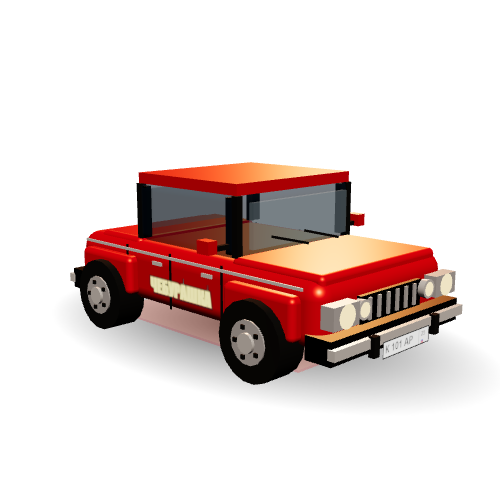
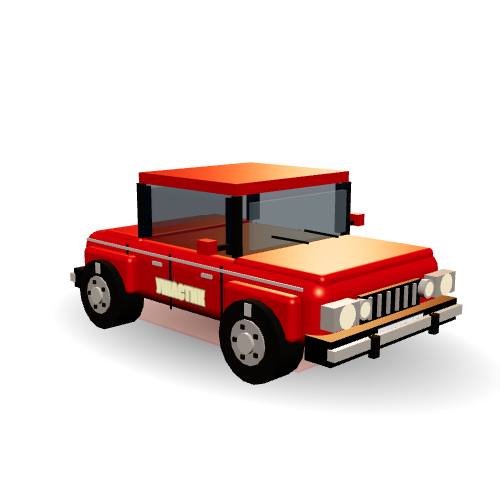
fix(content): без чужих названий в лоре и трофеях — вымышленные двойники из 90-х
По решению: «Терминатор» → «Киборг-убийца», «Битлз» → группа «Яблоньки», «Король и Шут» →
«Граф и Дурак» (лор главы 1, реплики злодея); жвачка «Турбо» (реальная марка) → жвачка «Разгон»,
в интерфейсе — «Жвачки»; машина «Чебурашка» → «Ушастик» (надпись на борту, лор, реплики, трофей
«Плюшевый Ушастик»; id cheburashka оставлен — сохранения не ломаются); трофеи «Нео-пилюля» →
«Красная пилюля», «Волк («Ну, погоди!»)» → «Волк в тельняшке», «Микрофон Ранеток» → «Микрофон
рок-группы», «Т-800 (кассета)» → «Кассета «Киборг-убийца»», «Брат» → «Тёмные очки братка»,
«Сердце океана» → «Кулон «Синее море»»; награда сезона «Гудок «Яблоньки»», чит-код «яблоньки».
Картинки машин перерисованы (надпись «УШАСТИК»). docs/ASSETS.md — всё отмечено ✅.

diff --git a/src/main.js b/src/main.js
@@ -1514,7 +1514,7 @@ function createProfile(name) { return Profile.createProfile(name); }
             sc.classList.add('active'); sc.style.display = 'flex';
             shopSelectedCar = currentPlayer.preferredCar || 'cheburashka';
             document.getElementById('shop-currency').textContent =
-                '🪙 Фишки: ' + currentPlayer.season.chips + ' · 🍬 Турбо: ' + currentPlayer.season.gum;
+                '🪙 Фишки: ' + currentPlayer.season.chips + ' · 🍬 Жвачки: ' + currentPlayer.season.gum;
             const box = document.getElementById('shop-cars');
             function refreshShopSelection() {
                 if (!currentPlayer || !shopSelectedCar) return;
@@ -1563,7 +1563,7 @@ function createProfile(name) { return Profile.createProfile(name); }
                             pendingCar = shopSelectedCar;
                             saveCurrentPlayer();
                             document.getElementById('shop-currency').textContent =
-                                '🪙 Фишки: ' + currentPlayer.season.chips + ' · 🍬 Турбо: ' + currentPlayer.season.gum;
+                                '🪙 Фишки: ' + currentPlayer.season.chips + ' · 🍬 Жвачки: ' + currentPlayer.season.gum;
                             box.querySelectorAll('.shop-car-btn').forEach(function(btn) {
                                 const id = btn.getAttribute('data-car');
                                 const p = CAR_PRESETS[id];
@@ -2656,7 +2656,7 @@ function startGaragePreview(carId) {
 
 
         // Баланс v2 (BALANCE_VERSION в начале файла): лимит 90 с на всех сложностях.
-        // Чистый заезд на «Чебурашке» (~24 ед/с в среднем с нитро): лёгкий ~58 с, средний ~62 с, сложный ~65 с.
+        // Чистый заезд на «Ушастике» (~24 ед/с в среднем с нитро): лёгкий ~58 с, средний ~62 с, сложный ~65 с.
         // Авария стоит ~5 / 6 / 8 с (штраф × timePenaltyMul + потеря скорости) — по времени можно ошибиться
         // примерно 5 / 4 / 3 раза. Сложность растёт плотностью зверей и машин, а не длиной трассы.
 
@@ -4323,7 +4323,7 @@ function startGaragePreview(carId) {
                     if (!cheb) {
                         cheb = document.createElement('div');
                         cheb.id = 'cheburashkaWarn';
-                        cheb.textContent = '😰 Чебурашка: ещё один удар — и Золотой Кирпич!';
+                        cheb.textContent = '😰 Ушастик: ещё один удар — и Золотой Кирпич!';
                         cheb.style.cssText = 'position:fixed;bottom:58px;left:50%;transform:translateX(-50%);background:rgba(80,0,0,0.8);color:#ffaaaa;padding:4px 10px;border-radius:8px;border:1px solid #ff4444;z-index:90;font-size:10px;max-width:70vw;text-align:center;pointer-events:none;';
                         document.body.appendChild(cheb);
                     }
@@ -8105,9 +8105,9 @@ function startGaragePreview(carId) {
             }
 
             const RADIO_LINES = {
-                start: ['Чебурашка, поехали. Жвачка не будет ждать.', 'Эфир чист… почти. Не слушай Ранеток.'],
+                start: ['Ушастик, поехали. Жвачка не будет ждать.', 'Эфир чист… почти. Не слушай «Яблонек».'],
                 nitro: ['Нитро в жилах! Держи руль!', 'Турбо-режим, как в хорошем клипе 90-х.'],
-                gum: ['Жвачка Турбо! Вкус победы.', 'Ещё одна фишка в коллекцию, братишка.'],
+                gum: ['Жвачка «Разгон»! Вкус победы.', 'Ещё одна фишка в коллекцию, братишка.'],
                 hit: ['Ай! Кузов помнит.', 'Осторожней, курьер. Аванс уже съели.', 'Это было близко к «Золотому Кирпичу».'],
                 boss: ['Медведь на частоте! Он снова про Арсеньевских!', 'Босс на хвосте. Не геройствуй — вези груз.'],
                 combo: ['Чистый эфир! Так держать.', 'Комбо растёт. Мост уже ближе.'],
@@ -9519,7 +9519,7 @@ function startGaragePreview(carId) {
                             el.style.borderColor = '#33ff66';
                             postShout(el, 1500);
                         } else {
-                            // Жвачка Турбо: +5 сек ИЛИ снятие 1 аварии
+                            // Жвачка «Разгон»: +5 сек ИЛИ снятие 1 аварии
                             try { if (window.soundEngine) window.soundEngine.playSfx('pickup', 1.0); } catch (e) {}
                             try {
                                 const fl = document.createElement('div');
@@ -9543,7 +9543,7 @@ function startGaragePreview(carId) {
                                 showTimePenaltyPopup(0, '🍬 +5 сек');
                                 const el = document.createElement('div');
                                 el.className = 'animal-shout';
-                                el.textContent = '🍬 Жвачка Турбо! +5 сек';
+                                el.textContent = '🍬 Жвачка «Разгон»! +5 сек';
                                 el.style.color = '#ff88cc';
                                 el.style.borderColor = '#ff88cc';
                                 postShout(el, 1600);
@@ -10860,7 +10860,7 @@ function startGaragePreview(carId) {
                 try { localStorage.setItem(MAP_LORE_KEY, JSON.stringify(seen)); } catch (e) {}
                 const texts = {
                     arsenev: '📍 Трасса Арсеньева: когда-то здесь ездили на дачу. Теперь — только курьеры и хамы с правами.',
-                    promzona: '📍 Промзона: трубы ещё дымят, хотя завод закрыли в 2029. Говорят, в цехах слышны Ранетки…',
+                    promzona: '📍 Промзона: трубы ещё дымят, хотя завод закрыли в 2029. Говорят, в цехах слышны «Яблоньки»…',
                     svalka: '📍 Свалка «Надежда»: всё, что город стыдится, лежит здесь. И да — жвачка Турбо тоже иногда попадается.'
                 };
                 if (texts[mapId]) setTimeout(() => showStory(texts[mapId]), 1200);
@@ -11345,7 +11345,7 @@ function showLoreScreen(quality, difficulty) {
 
         if (typeof refreshMapSelectUI === 'function') refreshMapSelectUI();
         
-        // Чит-коды: РАНЕТКИ / RANETKI / АРСЕНАЛ / ARSENAL — все карты + достижения + трофеи
+        // Чит-коды: ЯБЛОНЬКИ / YABLONKI / АРСЕНАЛ / ARSENAL — все карты + достижения + трофеи
         function unlockEverythingCheat(source) {
             try {
                 if (!currentPlayer) {
@@ -11419,11 +11419,11 @@ function showLoreScreen(quality, difficulty) {
             cheatBuffer += k;
             if (cheatBuffer.length > 32) cheatBuffer = cheatBuffer.slice(-32);
             const buf = cheatBuffer;
-            if (buf.includes('ранетки') || buf.includes('ranetki') ||
+            if (buf.includes('яблоньки') || buf.includes('yablonki') ||
                 buf.includes('арсенал') || buf.includes('arsenal') ||
                 buf.includes('всекарты') || buf.includes('vsekarty')) {
                 cheatBuffer = '';
-                unlockEverythingCheat('РАНЕТКИ');
+                unlockEverythingCheat('ЯБЛОНЬКИ');
             }
         });
 

diff --git a/src/content.js b/src/content.js
@@ -15,14 +15,14 @@ export const MAP_NAMES = {
 export const CAMPAIGN_FINISH_LINES = [
     'Одна трасса — не победа.\nТы лишь выехал из клетки, курьер.\nАнтидот всё ещё в багажнике… и под прицелом.',
     'Дождь смыл твои следы, но не мой интерес.\nПродолжай. Мне нравится, как ты цепляешься за «мир».',
-    'Ночь тебя не съела — жаль.\nЗелёные глаза запомнили «Чебурашку».\nДальше будет теснее.',
+    'Ночь тебя не съела — жаль.\nЗелёные глаза запомнили «Ушастика».\nДальше будет теснее.',
     'Промзона открыла рот.\nТы въехал в мою территорию добровольно.\nХрабрость или глупость — разберём на финише Центра.',
     'Цех №7 помнит мой почерк.\nТы едешь по чертежам, которые я же и испортил.\nАнтидот не исправит автора.',
     'Красный свет труб — не декорация.\nЭто предупреждение.\nСбавь героизм, пока частота ещё вежливая.',
     'Свалка «Надежда» приняла тебя как ещё один остов.\nТы выбрался. Пока что.\nНадежда — плохой навигатор.',
     'Зелёный дым не отличил, кто прав.\nОн только показал, кто дышит глубже.\nТы всё ещё везёшь «undo» для моего приговора.',
     'Холодный рассвет.\nЯ слышал, как стучало сердце.\nНе путай адреналин с правотой.',
-    'Кассеты, «Терминатор», жвачка…\nТы снова в ностальгии, а я — в эфире.\nИрония не спасёт антидот.',
+    'Кассеты, «Киборг-убийца», жвачка…\nТы снова в ностальгии, а я — в эфире.\nИрония не спасёт антидот.',
     'Подступы к Центру.\nПочти у двери тех, кто всё «исправит».\nСкажи им: мир без ЗвероСуда — снова ложь в халате.',
     'Ты доехал.\nБутылка на столе. Подписи. Улыбки.\nНо частота останется.\nВключи радио завтра — если услышишь треск, это не сбой. Это я.',
     'Радиорынок гудит.\nТы купил время — не победу.',
@@ -78,14 +78,14 @@ export const CAR_PAINTS = [
 ];
 
 export const TROPHIES = [
-    { id: 't_cheburashka', name: 'Чебурашка', emoji: '🧸', desc: 'Первый финиш', need: 'first_win' },
-    { id: 't_wolf', name: 'Волк («Ну, погоди!»)', emoji: '🐺', desc: 'Друг медведя', need: 'bear_friend' },
-    { id: 't_terminator', name: 'Т-800 (кассета)', emoji: '🤖', desc: 'Финиш ночью', need: 'night_rider' },
-    { id: 't_matrix', name: 'Нео-пилюля', emoji: '💊', desc: 'Финиш без аварий', need: 'perfect' },
-    { id: 't_brother', name: 'Брат', emoji: '🕶', desc: 'Победа на сложном', need: 'hard_win' },
-    { id: 't_titanic', name: 'Сердце океана', emoji: '💎', desc: '2 жвачки за рейс', need: 'gum_2' },
+    { id: 't_cheburashka', name: 'Плюшевый Ушастик', emoji: '🧸', desc: 'Первый финиш', need: 'first_win' },
+    { id: 't_wolf', name: 'Волк в тельняшке', emoji: '🐺', desc: 'Друг медведя', need: 'bear_friend' },
+    { id: 't_terminator', name: 'Кассета «Киборг-убийца»', emoji: '🤖', desc: 'Финиш ночью', need: 'night_rider' },
+    { id: 't_matrix', name: 'Красная пилюля', emoji: '💊', desc: 'Финиш без аварий', need: 'perfect' },
+    { id: 't_brother', name: 'Тёмные очки братка', emoji: '🕶', desc: 'Победа на сложном', need: 'hard_win' },
+    { id: 't_titanic', name: 'Кулон «Синее море»', emoji: '💎', desc: '2 жвачки за рейс', need: 'gum_2' },
     { id: 't_pokemon', name: 'Жёлтая молния', emoji: '⚡', desc: 'Финиш без нитро', need: 'no_nitro' },
-    { id: 't_ranetki', name: 'Микрофон Ранеток', emoji: '🎤', desc: 'Уровень сезона 5', need: 'season5' },
+    { id: 't_ranetki', name: 'Микрофон рок-группы', emoji: '🎤', desc: 'Уровень сезона 5', need: 'season5' },
     { id: 't_taxi', name: 'Шашечки такси', emoji: '🚕', desc: '10 заездов', need: 'races10' },
     { id: 't_mk', name: 'Фишка из автомата', emoji: '🕹', desc: '5 побед', need: 'wins5' }
 ];
@@ -96,7 +96,7 @@ export const SEASON_REWARDS = [
     { level: 3,  text: 'Стикер «Не бить — засудит»', gum: 10, chips: 0 },
     { level: 4,  text: 'Гудок «Мелодия»', gum: 5, chips: 1 },
     { level: 5,  text: 'Номер «АРС–90»', gum: 15, chips: 1 },
-    { level: 6,  text: 'Пачка Турбо', gum: 50, chips: 0 },
+    { level: 6,  text: 'Пачка «Разгона»', gum: 50, chips: 0 },
     { level: 7,  text: 'Фишка из автомата', gum: 0, chips: 1 },
     { level: 8,  text: 'Титул «Без нитро»', gum: 10, chips: 0 },
     { level: 9,  text: 'Новый крик зверя', gum: 5, chips: 0 },
@@ -110,7 +110,7 @@ export const SEASON_REWARDS = [
     { level: 17, text: 'Фишка ×1', gum: 0, chips: 1 },
     { level: 18, text: 'Реплика радио №2', gum: 10, chips: 0 },
     { level: 19, text: 'Титул «Масломан»', gum: 10, chips: 0 },
-    { level: 20, text: 'Гудок «Ранетки»', gum: 25, chips: 2 },
+    { level: 20, text: 'Гудок «Яблоньки»', gum: 25, chips: 2 },
     { level: 21, text: 'Стикер «Свалка»', gum: 15, chips: 0 },
     { level: 22, text: 'Фишка ×2', gum: 0, chips: 2 },
     { level: 23, text: 'Рамка «Надежда»', gum: 15, chips: 0 },

diff --git a/src/data.js b/src/data.js
@@ -10,7 +10,7 @@ export const CAMPAIGN_TRACKS = [
     { id: 'c02', name: 'Трасса «Туманный мост»', style: 'arsenev', weather: 'rain', diff: 'easy',
       desc: 'Дождь. Разметка почти не видна.',
       loreTitle: 'Мокрый асфальт',
-      loreAfter: 'Дождь смывает следы людей.\nОставляет только тех, кто умеет жить без правил.\n\nТвои звери уже знают номер «Чебурашки».\nОни не злые — они свободные.\nА свободу вы называли «ошибкой эксперимента».\n\nАнтидот вернёт их в клетки… только уже в головах.\nЯ этого не допущу.' },
+      loreAfter: 'Дождь смывает следы людей.\nОставляет только тех, кто умеет жить без правил.\n\nТвои звери уже знают номер «Ушастика».\nОни не злые — они свободные.\nА свободу вы называли «ошибкой эксперимента».\n\nАнтидот вернёт их в клетки… только уже в головах.\nЯ этого не допущу.' },
     { id: 'c03', name: 'Ночной объезд', style: 'arsenev', weather: 'night', diff: 'medium',
       desc: 'Только фары и глаза в темноте.',
       loreTitle: 'Зелёные глаза',
@@ -27,7 +27,7 @@ export const CAMPAIGN_TRACKS = [
     { id: 'c06', name: 'Красные трубы', style: 'promzona', weather: 'night', diff: 'hard',
       desc: 'Мигающие лампы. Не смотри по сторонам.',
       loreTitle: 'Красный сигнал',
-      loreAfter: 'Каждый твой финиш — репортаж.\n«Курьер снова прорвался».\n\nМне нужна тишина, а не герои на радио.\nЛюди снова поверят, что мир можно «починить бутылкой».\n\nПочини себя сначала.\nТы возил пиратский «Терминатор» и жвачку «Турбо».\nТеперь вдруг — спаситель цивилизации?\n\nСбавь пафос. Или скорость. На выбор.' },
+      loreAfter: 'Каждый твой финиш — репортаж.\n«Курьер снова прорвался».\n\nМне нужна тишина, а не герои на радио.\nЛюди снова поверят, что мир можно «починить бутылкой».\n\nПочини себя сначала.\nТы возил пиратского «Киборга-убийцу» и жвачку «Разгон».\nТеперь вдруг — спаситель цивилизации?\n\nСбавь пафос. Или скорость. На выбор.' },
     { id: 'c07', name: 'Свалка «Надежда»', style: 'svalka', weather: 'day', diff: 'medium',
       desc: 'Горы хлама и странный запах.',
       loreTitle: 'Свалка равных',
@@ -44,7 +44,7 @@ export const CAMPAIGN_TRACKS = [
     { id: 'c10', name: 'Шоссе «Последний VHS»', style: 'arsenev', weather: 'day', diff: 'hard',
       desc: 'Ностальгия и высокая скорость.',
       loreTitle: 'Кассета судьбы',
-      loreAfter: '«Терминатор», «Битлз», «Король и Шут»…\nТы возил прошлое, пока настоящее гнило.\n\nЯ тоже из того времени.\nТолько вместо гитары у меня был лабораторный журнал.\n\nТы веришь, что Армагеддон останавливают песнями.\nЯ остановил его иначе: отдал дорогу тем, кого вы давили.\n\nИрония: контрабандист стал мессией.\nА я — голосом в приёмнике.\nКто из нас настоящий?' },
+      loreAfter: '«Киборг-убийца», «Яблоньки», «Граф и Дурак»…\nТы возил прошлое, пока настоящее гнило.\n\nЯ тоже из того времени.\nТолько вместо гитары у меня был лабораторный журнал.\n\nТы веришь, что Армагеддон останавливают песнями.\nЯ остановил его иначе: отдал дорогу тем, кого вы давили.\n\nИрония: контрабандист стал мессией.\nА я — голосом в приёмнике.\nКто из нас настоящий?' },
     { id: 'c11', name: 'Подступы к Центру', style: 'promzona', weather: 'rain', diff: 'hard',
       desc: 'Охрана, звери, нитро — всё сразу.',
       loreTitle: 'Последний заслон',
@@ -164,7 +164,7 @@ export const CAMPAIGN_STAGE_MODS = {
 // сохранить прежнее ощущение разгона (время до максимума не изменилось).
 export const CAR_PRESETS = {
     // ability — у каждой машины своя «фишка», выбор машины — решение, а не косметика
-    cheburashka: { name: 'Чебурашка', color: 0xff2200, maxSpeed: 0.42, accel: 0.0216, durability: 1.00, oilGrip: 1.00, priceChips: 0,
+    cheburashka: { name: 'Ушастик', color: 0xff2200, maxSpeed: 0.42, accel: 0.0216, durability: 1.00, oilGrip: 1.00, priceChips: 0,
         ability: { id: 'nimble', name: 'Вёрткая', desc: 'руль острее на 15%, «На волоске!» даёт нитро дольше' } },
     kirpich:     { name: 'Нива',       color: 0x4a6a4a, maxSpeed: 0.372, accel: 0.0168, durability: 0.70, oilGrip: 1.18, priceChips: 12,
         ability: { id: 'offroad', name: 'Внедорожник', desc: 'ямы, кочки, лёд и смола не тормозят' } },

diff --git a/index.html b/index.html
@@ -201,7 +201,7 @@
     <div id="shop-screen">
         <div class="content">
             <h1 style="color:#ffdd00;">🚗 МАШИНЫ</h1>
-            <div class="sub" id="shop-currency" style="color:#ffaa44;">🪙 Фишки: 0 · 🍬 Турбо: 0</div>
+            <div class="sub" id="shop-currency" style="color:#ffaa44;">🪙 Фишки: 0 · 🍬 Жвачки: 0</div>
             <div id="shop-canvas-wrap"></div>
             <div class="shop-cars" id="shop-cars"></div>
             <div id="shop-desc" class="car-stats" style="font-size:12px;color:#aaa;margin:8px 0;"></div>
@@ -382,13 +382,13 @@
         <div class="content">
             <img id="car-select-banner" src="images/car_select.jpg" alt="Выбор машины"
                  onerror="this.onerror=null;this.src='images/car_select.png';">
-            <h2>🚗 ВЫБЕРИ ЧЕБУРАШКУ</h2>
+            <h2>🚗 ВЫБЕРИ МАШИНУ</h2>
             <div class="sub">От выбора зависят скорость, прочность и поведение на масле</div>
             <div class="car-options">
                 <div class="car-card selected" data-car="cheburashka">
-                    <img class="car-img" src="images/car_cheburashka.png" alt="Чебурашка"
+                    <img class="car-img" src="images/car_cheburashka.png" alt="Ушастик"
                          onerror="this.onerror=null;this.src='images/car_cheburashka.png';this.style.background='#331108';">
-                    <div class="car-name">Чебурашка</div>
+                    <div class="car-name">Ушастик</div>
                     <div class="car-desc">Вёрткая<br>руль острее</div>
                 </div>
                 <div class="car-card" data-car="kirpich">
@@ -432,7 +432,7 @@
                 <h2>🏎 ДОРОЖНЫЙ ПРОРЫВ — ДОРОГА ИЗ АРСЕНЬЕВА</h2>
                 <p>Год 2037. Мир уже не тот. Животные внезапно осознали, что у них есть права, и решили воспользоваться ими самым радикальным способом. Они вышли на дороги — массово, агрессивно и с полным игнорированием ПДД.</p>
                 <p>Власти объявили режим «ЗвероСуда». Сбивать их нельзя — при неправильном умерщвлении мясо покрывается токсичным слоем. Питаться будет нечем.</p>
-                <p>Ты — Водитель. Последний из могикан. Профессиональный курьер. На самом деле возишь контрабандные кассеты с «Терминатором» и копиями «Битлз» на рентгеновских снимках. Клиент заплатил пачкой жвачки «Турбо» и пообещал ещё одну… если уложишься.</p>
+                <p>Ты — Водитель. Последний из могикан. Профессиональный курьер. На самом деле возишь контрабандные кассеты с «Киборгом-убийцей» и копиями «Яблонек» на рентгеновских снимках. Клиент заплатил пачкой жвачки «Разгон» и пообещал ещё одну… если уложишься.</p>
             </div>
             <div class="lore-progress">1 / 2</div>
             <div class="lore-nav">
@@ -449,7 +449,7 @@
                 <p>Старт — придорожное кафе «Ностальджгия». Финиш — «Золотой Мост», который открывается только раз в сутки ровно на 90 секунд. Не успел — мост улетает в космос вместе с надеждой.</p>
                 <p>Через полторы минуты сработает «Звериный час». Животные выходят на охоту. Они не кусают — они тормозят машины, чтобы ты прослушал их любимый плейлист «Ранеток» или стихи медведя с сигаретой в пасти.</p>
                 <p>Каждая авария — «поцелуй судьбы». До 7 секунд жизни. 5 аварий — и ты получаешь «Золотой Кирпич». После этого жизнь превращается в бесконечный чёрно-белый фильм с плохим переводом.</p>
-                <p style="color:#ffaa00; margin-top:14px; text-align:center;"><b>Жвачка «Турбо» ждёт. Не подведи Чебурашку.</b></p>
+                <p style="color:#ffaa00; margin-top:14px; text-align:center;"><b>Жвачка «Разгон» ждёт. Не подведи Ушастика.</b></p>
             </div>
             <div class="lore-progress">2 / 2</div>
             <div class="lore-nav">

diff --git a/tests/unit/car-stats.test.js b/tests/unit/car-stats.test.js
@@ -15,7 +15,7 @@ describe('сравнение машин', () => {
         expect(new Set(names).size).toBe(1);
         expect(names[0]).toBe('Скорость,Разгон,Управление,Прочность,Нитро');
     });
-    it('Волга быстрее Чебурашки, Нива прочнее', () => {
+    it('Волга быстрее Ушастика, Нива прочнее', () => {
         const ch = statBars(CAR_PRESETS.cheburashka, {});
         const d1 = statDeltas(statBars(CAR_PRESETS.turbo, {}), ch);
         const d2 = statDeltas(statBars(CAR_PRESETS.kirpich, {}), ch);
@@ -25,12 +25,12 @@ describe('сравнение машин', () => {
     });
     it('разметка: способность, шкалы, разница и экранирование', () => {
         const bars = statBars(CAR_PRESETS.turbo, {});
-        const html = carStatsHtml(bars, { ability: { name: 'Ракета', desc: 'a<b' }, compare: statBars(CAR_PRESETS.cheburashka, {}), compareName: 'Чебурашка', note: 'Стоимость: 20' });
+        const html = carStatsHtml(bars, { ability: { name: 'Ракета', desc: 'a<b' }, compare: statBars(CAR_PRESETS.cheburashka, {}), compareName: 'Ушастик', note: 'Стоимость: 20' });
         expect(html).toContain('★ Ракета');
         expect(html).toContain('a&lt;b');
         expect((html.match(/class="cs-bar"/g) || []).length).toBe(5);
         expect(html).toContain('class="up">+');
-        expect(html).toContain('сравнение с «Чебурашка»');
+        expect(html).toContain('сравнение с «Ушастик»');
         expect(html).toContain('Стоимость: 20');
     });
 });

diff --git a/src/locales/en.js b/src/locales/en.js
@@ -143,9 +143,9 @@ export default {
         '🌧 Дождь': '🌧 Rain',
         '💡 Новые карты открываются после победы на сложном режиме': '💡 New maps unlock after a win on hard',
         '← Сложность': '← Difficulty',
-        '🚗 ВЫБЕРИ ЧЕБУРАШКУ': '🚗 CHOOSE YOUR CAR',
+        '🚗 ВЫБЕРИ МАШИНУ': '🚗 CHOOSE YOUR CAR',
         'От выбора зависят скорость, прочность и поведение на масле': 'Cars differ in speed, toughness and grip on oil',
-        'Чебурашка': 'Cheburashka',
+        'Ушастик': 'Lop-Ear',
         'Нива': 'Niva',
         'Волга': 'Volga',
         'Баланс': 'Balanced',
@@ -395,7 +395,7 @@ export default {
         [/^«(.+)» строит баррикады$/, '«$1» builds barricades'],
         [/^🦶 Сверху! ×(\d+)$/, '🦶 From above! ×$1'],
         [/^Уровень (\d+)$/, 'Level $1'],
-        [/^🪙 Фишки: (\d+) · 🍬 Турбо: (\d+)$/, '🪙 Chips: $1 · 🍬 Turbo: $2'],
+        [/^🪙 Фишки: (\d+) · 🍬 Жвачки: (\d+)$/, '🪙 Chips: $1 · 🍬 Gum: $2'],
         [/^🏆 Лучшее время: (.+)$/, '🏆 Best time: $1'],
         [/^🏆 Лучшее: (.+)$/, '🏆 Best: $1'],
         [/^🏆 Рекорд: (\d+)$/, '🏆 Record: $1'],

diff --git a/src/cars.js b/src/cars.js
@@ -611,7 +611,7 @@ export function buildShowroomCar(carId) {
             if (w.z > 0) B(dark, Math.sign(w.x) * (bodyW * 0.5 - 0.1), bodyY - bodyH * 0.5 - 0.07, w.z + wheelR + 0.04, 0.18, 0.15, 0.02);
         });
         if (!isJeep && !isSport) {
-            // Чебурашка — «копейка»: сдвоенные круглые фары и хромированные бамперы с клыками
+            // Ушастик — «копейка»: сдвоенные круглые фары и хромированные бамперы с клыками
             const hlY2 = 0.44, hlZ2 = frontZ - 0.05;
             [-1, 1].forEach(function(sx) {
                 const cup = new THREE_REF.Mesh(new THREE_REF.CylinderGeometry(0.055, 0.06, 0.05, 14), chrome2);
@@ -628,7 +628,7 @@ export function buildShowroomCar(carId) {
             });
         }
         // надписи на дверях
-        const decal = { cheburashka: 'ЧЕБУРАШКА', kirpich: '4×4', turbo: null }[carId];
+        const decal = { cheburashka: 'УШАСТИК', kirpich: '4×4', turbo: null }[carId];
         if (decal) {
             const cv = document.createElement('canvas'); cv.width = 256; cv.height = 64;
             const cx = cv.getContext('2d');

diff --git a/src/animals.js b/src/animals.js
@@ -10,7 +10,7 @@ const ANIMAL_KEYS = Object.keys(ANIMAL_TYPES);
  * Звери «видят» скорость машины. Перебежка стартует на фиксированном расстоянии и длится фиксированное время,
  * поэтому прокачанная Волга на нитро (≈ вдвое быстрее) проскакивала раньше, чем зверь выбегал на дорогу,
  * а появлялись звери по времени — на трассе их становилось вдвое меньше. Теперь порог перебежки и частота
- * растут со скоростью: время на реакцию и число встреч на трассе — как у стоковой Чебурашки.
+ * растут со скоростью: время на реакцию и число встреч на трассе — как у стокового Ушастика.
  * REF_SPEED — её крейсерская скорость, ед./с. Возвращает множитель 1..2.2.
  */
 export const REF_SPEED = 25;

diff --git a/src/ui/season-screens.js b/src/ui/season-screens.js
@@ -93,7 +93,7 @@ export function openEventsScreen(d) {
         </div>
         <div class="event-card">
             <h3>🚗 Автопарк</h3>
-            <p>«Чебурашка» — служебный таз, бесплатно. «Нива» — 12 фишек. «Волга» — 20 фишек. У каждой своя способность, а в гараже — прокачка: двигатель, коробка, шины, броня и нитро.</p>
+            <p>«Ушастик» — служебный таз, бесплатно. «Нива» — 12 фишек. «Волга» — 20 фишек. У каждой своя способность, а в гараже — прокачка: двигатель, коробка, шины, броня и нитро.</p>
         </div>`;
     const startBtn = document.getElementById('events-start-contract');
     if (startBtn) {

diff --git a/docs/ASSETS.md b/docs/ASSETS.md
@@ -111,11 +111,13 @@
 | трофей `t_pokemon` (`src/content.js`) | было «Пикачу-значок» | Pokémon — торговая марка | ✅ заменено на «Жёлтая молния» |
 | трофей `t_mk`, награда сезона 7, текст финиша | было «Фишка MK», «Фишка Mortal», «Mortal Kombat» | торговая марка | ✅ заменено на «Фишка из автомата» |
 | щиты-баннеры вдоль трассы (`src/main.js`, `banners90`) | было «ТЕРМИНАТОР 2», «БРАТ», «ЖМУРКИ», «БРИГАДА», «ДМБ», «TURBO ЖВАЧКА», «СЕГА МЕГА ДРАЙВ», «РАНЕТКИ ТУР», «ФАНТА» | фильмы, группа, марки | ✅ заменено на вымышленные: «КИБОРГ-УБИЙЦА 2», «КРУТОЙ ПАРЕНЬ», «ПРЯТКИ В ГАРАЖЕ», «ДВОРОВАЯ БРИГАДА», «ДЕМБЕЛЬ-97», «ТУРБО-ЖУЙ», «ПРИСТАВКА 16 БИТ», «ГРУППА «ЯБЛОНЬКИ»», «ЛИМОНАД «ЁЛОЧКА»» |
-| трофей `t_matrix` | «Нео-пилюля» | «Матрица» — персонаж | 🔁 «Красная пилюля» (без имени) |
-| трофей `t_ranetki`, награда сезона 20 | «Ранетки» | название группы | 🔁 «Микрофон рок-группы» |
-| трофей `t_wolf` | «Ну, погоди!» | мультфильм, права у киностудии | 🔁 «Волк в тельняшке» |
-| машина, трофей, лор | «Чебурашка» | персонаж, права у киностудии; имя машины — отсылка | ⚠ консультация юриста; запасной вариант — «Ушастик» |
-| лор, реплика злодея | «Терминатор», «Битлз» | упоминание в тексте | обычно допустимо как упоминание, но без логотипов и цитат |
+| трофей `t_matrix` | было «Нео-пилюля» | «Матрица» — персонаж | ✅ заменено на «Красная пилюля» |
+| трофей `t_ranetki`, награда сезона 20, реплики радио, чит-код | было «Ранетки» | название группы | ✅ трофей «Микрофон рок-группы», остальное — вымышленная группа «Яблоньки» (чит-код — «яблоньки») |
+| трофей `t_wolf` | было «Волк («Ну, погоди!»)» | мультфильм, права у киностудии | ✅ заменено на «Волк в тельняшке» |
+| машина, трофей, лор, надпись на борту | было «Чебурашка» | персонаж, права у киностудии | ✅ машина «Ушастик», трофей «Плюшевый Ушастик» (id `cheburashka` оставлен — сохранения не ломаются); картинки машины перерисованы |
+| трофеи `t_terminator`, `t_brother`, `t_titanic` | было «Т-800 (кассета)», «Брат», «Сердце океана» | фильмы | ✅ «Кассета «Киборг-убийца»», «Тёмные очки братка», «Кулон «Синее море»» |
+| лор, реплики злодея | было «Терминатор», «Битлз», «Король и Шут» | фильм, группы | ✅ вымышленные двойники из 90-х: «Киборг-убийца», группы «Яблоньки» и «Граф и Дурак» |
+| жвачка-валюта | было жвачка «Турбо» (реальная марка Turbo) | торговая марка | ✅ жвачка «Разгон», в интерфейсе — «Жвачки» |
 
 Замена — только тексты в `src/content.js`, `index.html` и `src/data.js`, id трофеев менять не нужно
 (сохранения игроков не ломаются).
